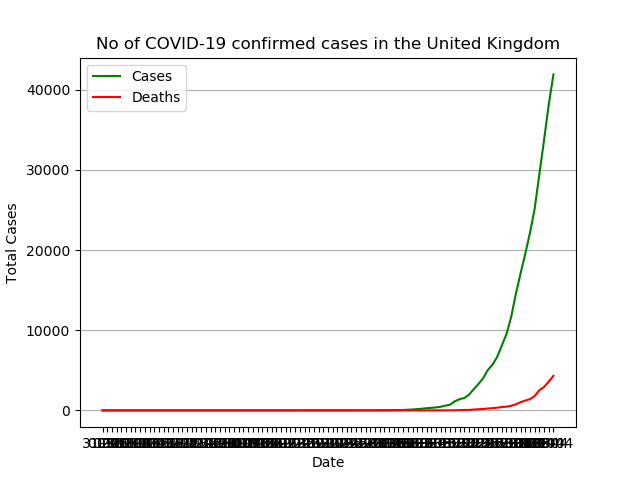
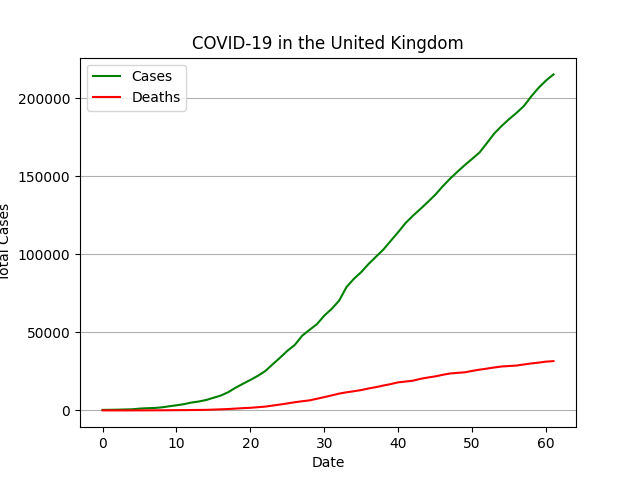
Improved plotting

diff --git a/plot_data.py b/plot_data.py
@@ -54,13 +54,15 @@ def main():
     world_data = group[group.values == 'World']
 
     uk_data.reset_index(drop=True, inplace=True)
+    uk_data.drop(range(0,70), inplace=True)
     world_data.reset_index(drop=True, inplace=True)
 
-    plt.plot(uk_data['date'], uk_data['total_cases'], '-g')
-    plt.plot(uk_data['date'], uk_data['total_deaths'], '-r')
-    #plt.plot(world_data['date'], world_data['total_cases'])
+    dates = range(0, len(uk_data))
 
-    plt.title('No of COVID-19 confirmed cases in the United Kingdom')
+    plt.plot(dates, uk_data['total_cases'], '-g')
+    plt.plot(dates, uk_data['total_deaths'], '-r')
+
+    plt.title('COVID-19 in the United Kingdom')
     plt.ylabel('Total Cases')
     plt.xlabel('Date')
     plt.legend(['Cases', 'Deaths'], loc='upper left')
